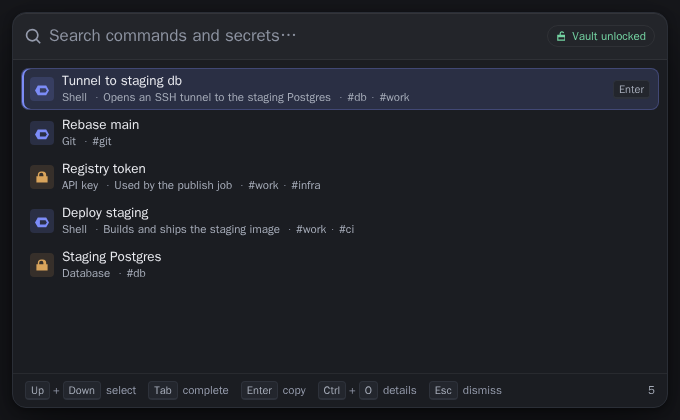
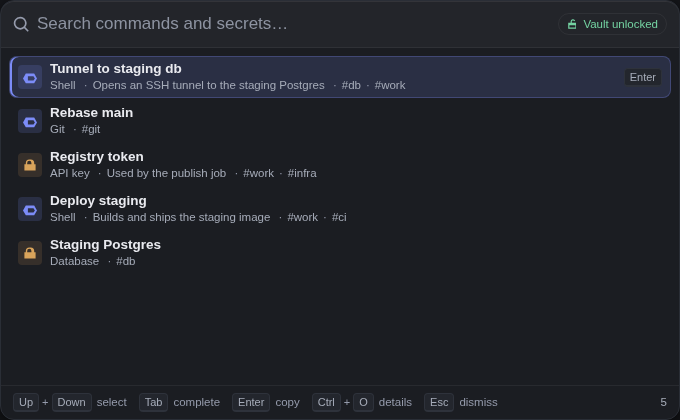
fix(finder): remove inset square from native palette

Changed region(s): [[0.0, 0.0, 1.0, 0.9595], [0.0, 0.8976, 0.9882, 1.0]]

diff --git a/src/windows/Finder.svelte b/src/windows/Finder.svelte
@@ -332,7 +332,7 @@
     background: var(--bg);
     display: grid;
     place-items: center;
-    padding: var(--sp-3);
+    padding: 0;
   }
   .palette {
     width: min(680px, 100%);
